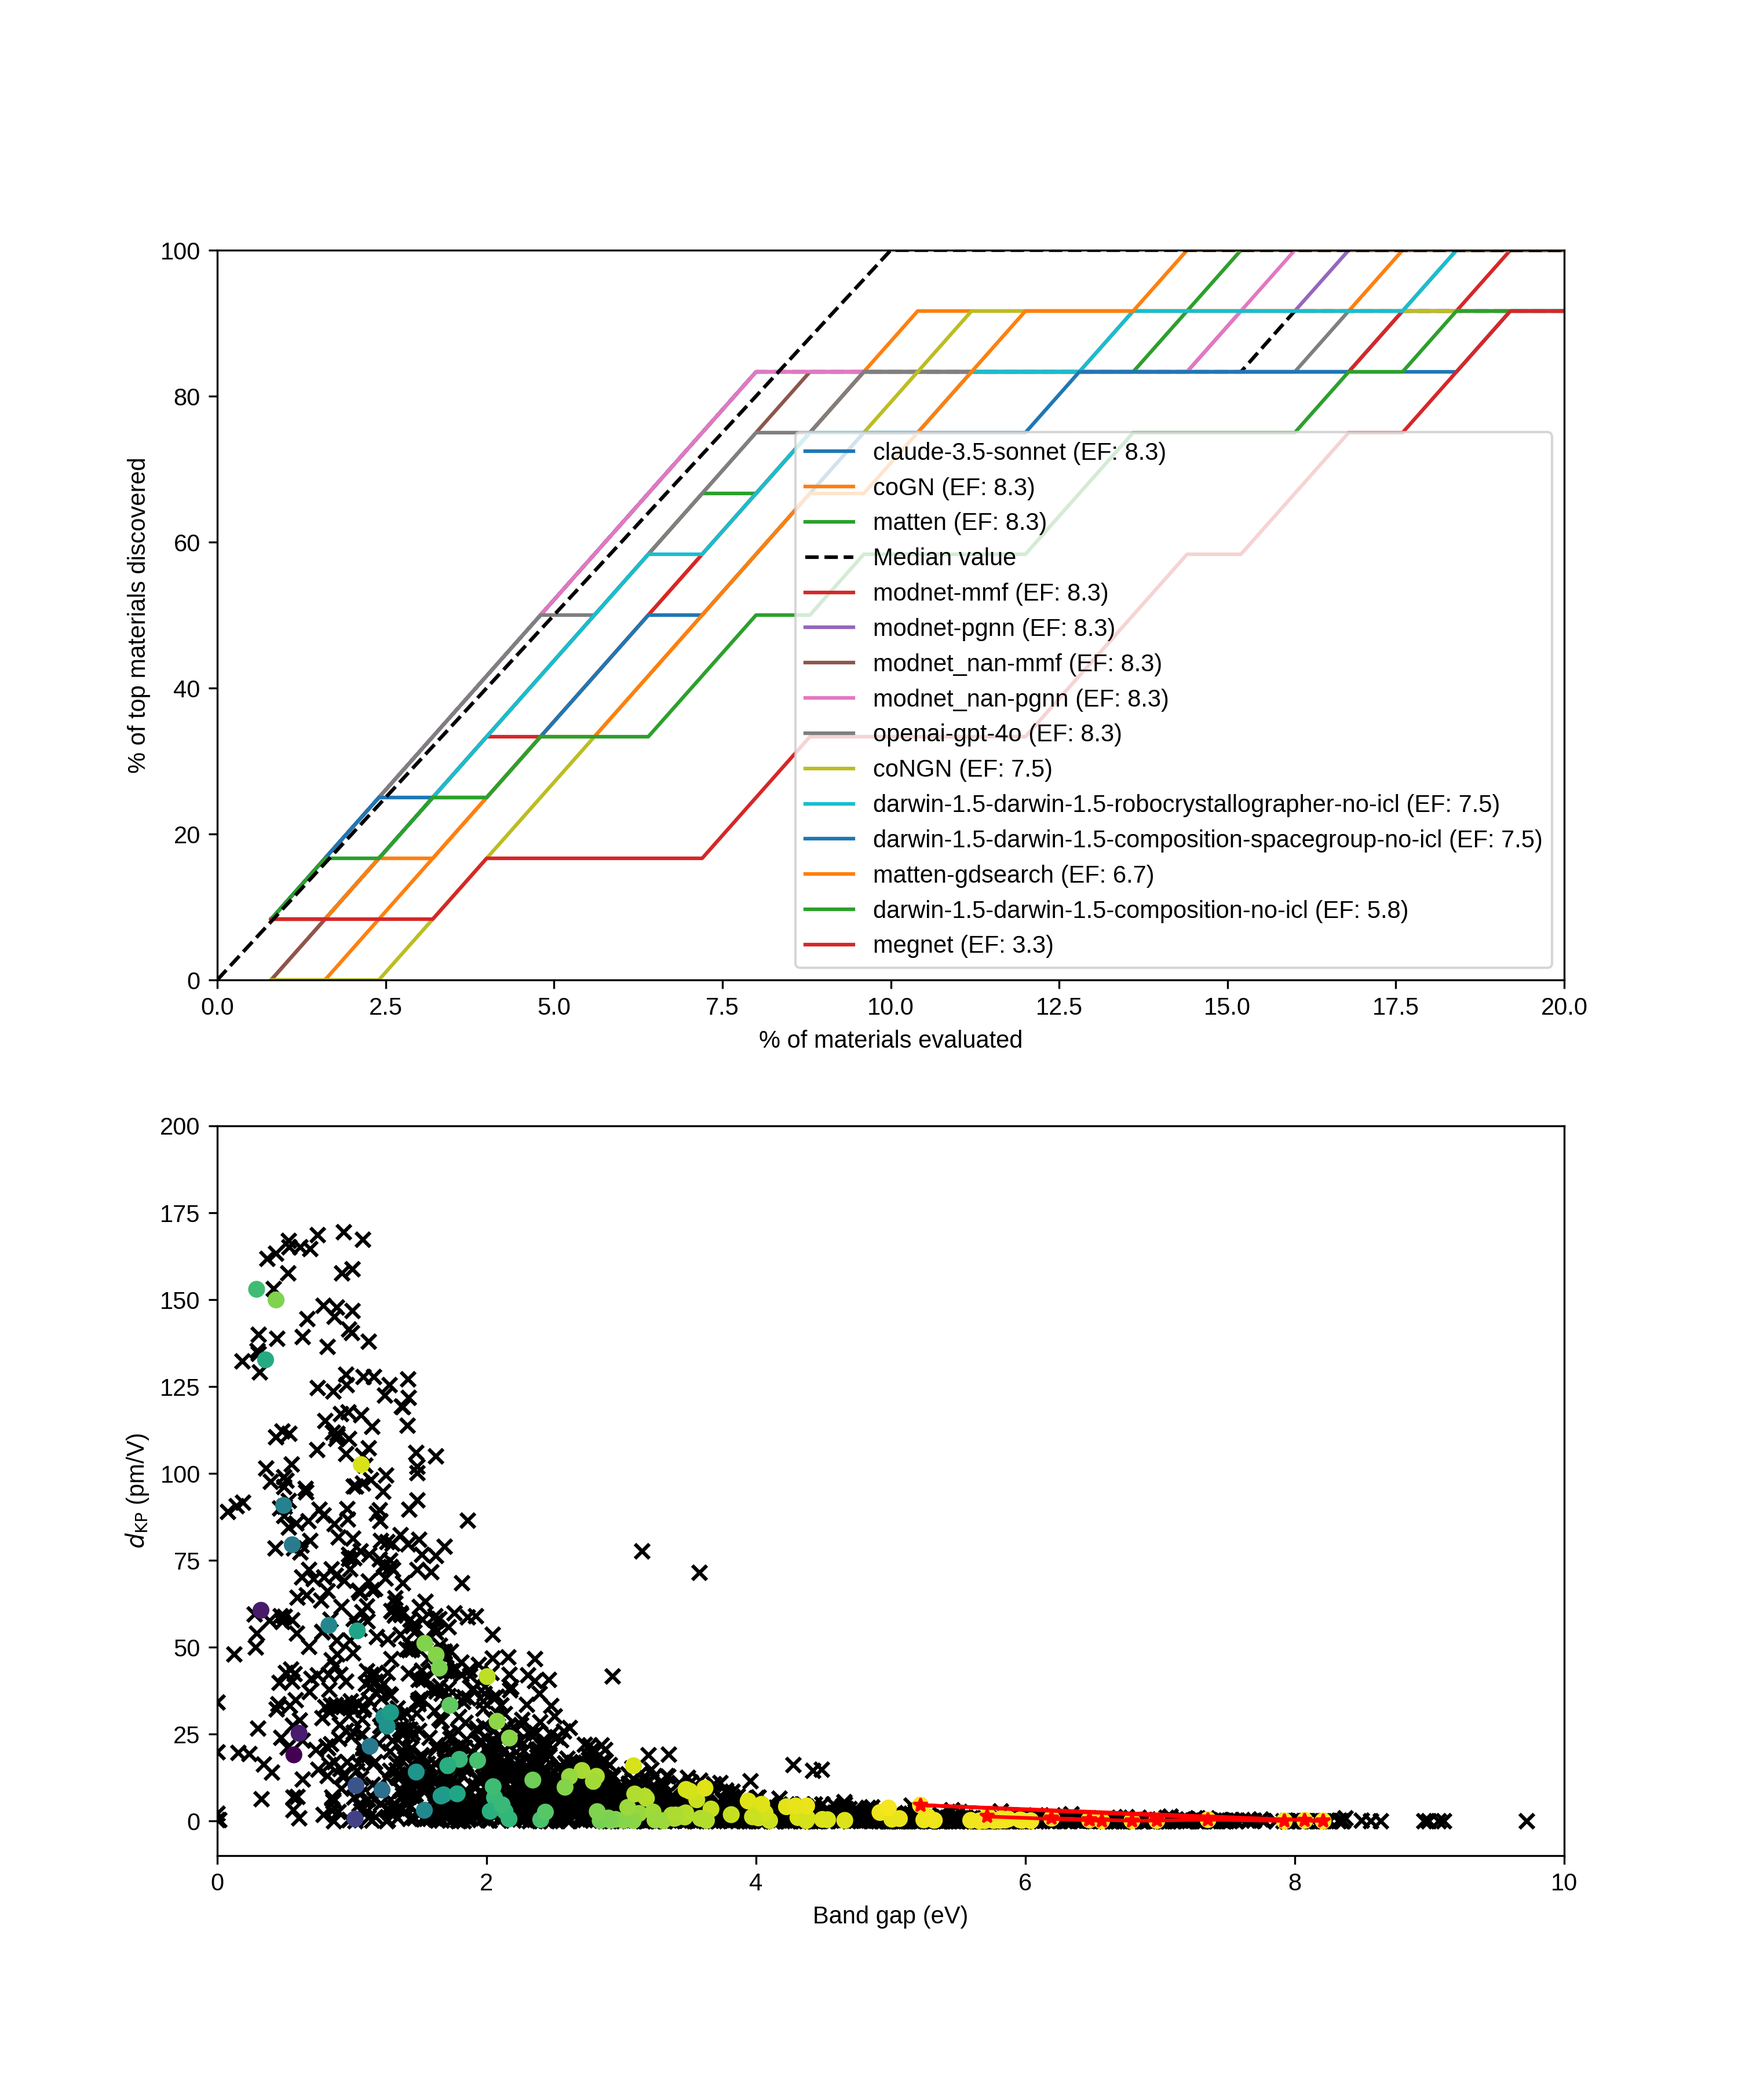
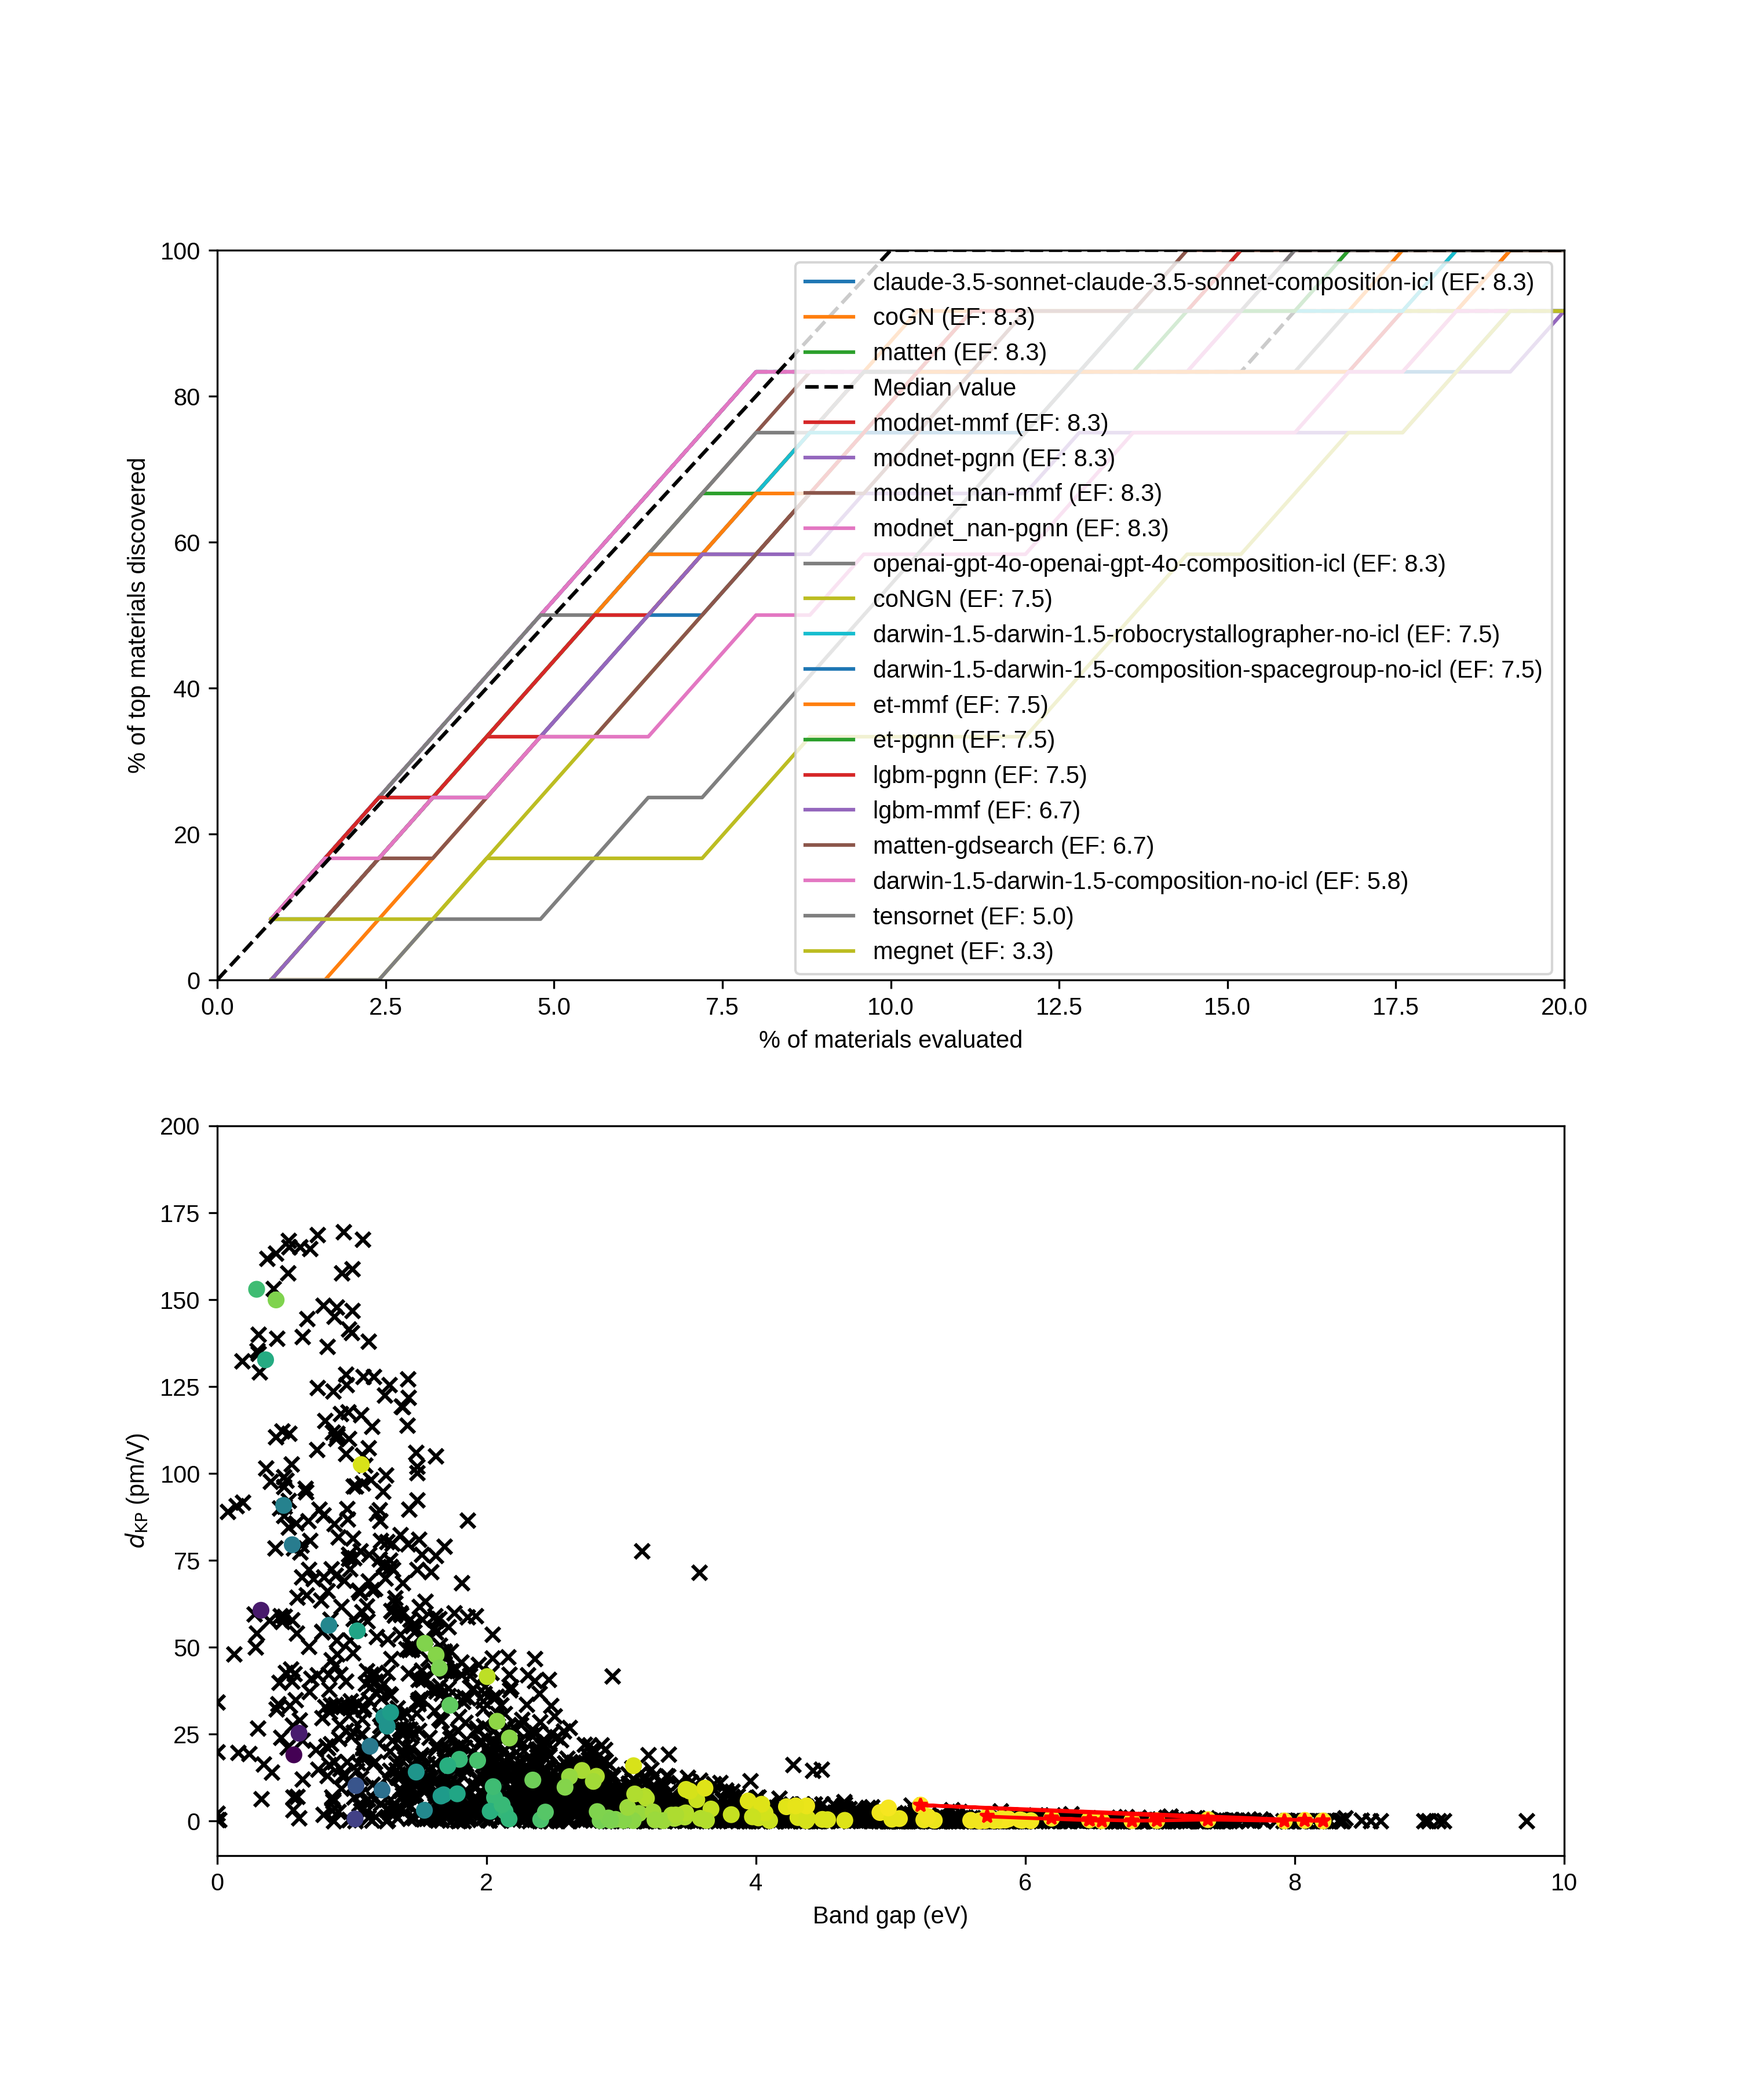
Make sure all subsets of models are included

diff --git a/src/shg_ml_benchmarks/analysis.py b/src/shg_ml_benchmarks/analysis.py
@@ -153,19 +153,16 @@ def pareto_fit(x, a=245.338, b=-0.7378):
 
 
 def compute_enrichment(
-    model, split, tag=None, discovery_thresholds=None, top_percent: float = 5
+    model, split, results_fname, discovery_thresholds=None, top_percent: float = 5
 ):
-    results_name = f"{tag}_results.json" if tag else "results.json"
-
     holdout = load_holdout(split)
 
     if not discovery_thresholds:
         discovery_thresholds = [0.5, 0.7, 0.9, 0.95]
 
-    results_file = BENCHMARKS_DIR / model / "tasks" / split / results_name
-    if not results_file.exists():
+    if not results_fname.exists():
         return None
-    with open(results_file) as f:
+    with open(results_fname) as f:
         results = json.load(f)
 
     predictions = pd.DataFrame.from_dict(
@@ -238,17 +235,17 @@ def plot_discovery_curves(split, top_percent=10.0):
     for model in models:
         if model.name.startswith("."):
             continue
-        results_files = model.glob(f"tasks/{split}/*results.json")
-        tags = [f.name.split("_")[0] for f in results_files]
-        for tag in tags:
+        results_files = model.glob(f"task*/{split}/*results.json")
+        # breakpoint()
+        # tags = [f.name.split("_")[0] for f in results_files]
+        for results_fname in results_files:
+            tag = results_fname.name.split("_")[0]
             if tag == "results.json":
                 tag = None
             result = compute_enrichment(
-                model.name, split, tag=tag, top_percent=top_percent
+                model.name, split, results_fname, top_percent=top_percent
             )
             if result is not None:
-                if len(tags) == 1:
-                    tag = None
                 enrichment_metrics[
                     f"{model.name}-{tag}" if tag is not None else model.name
                 ] = result
